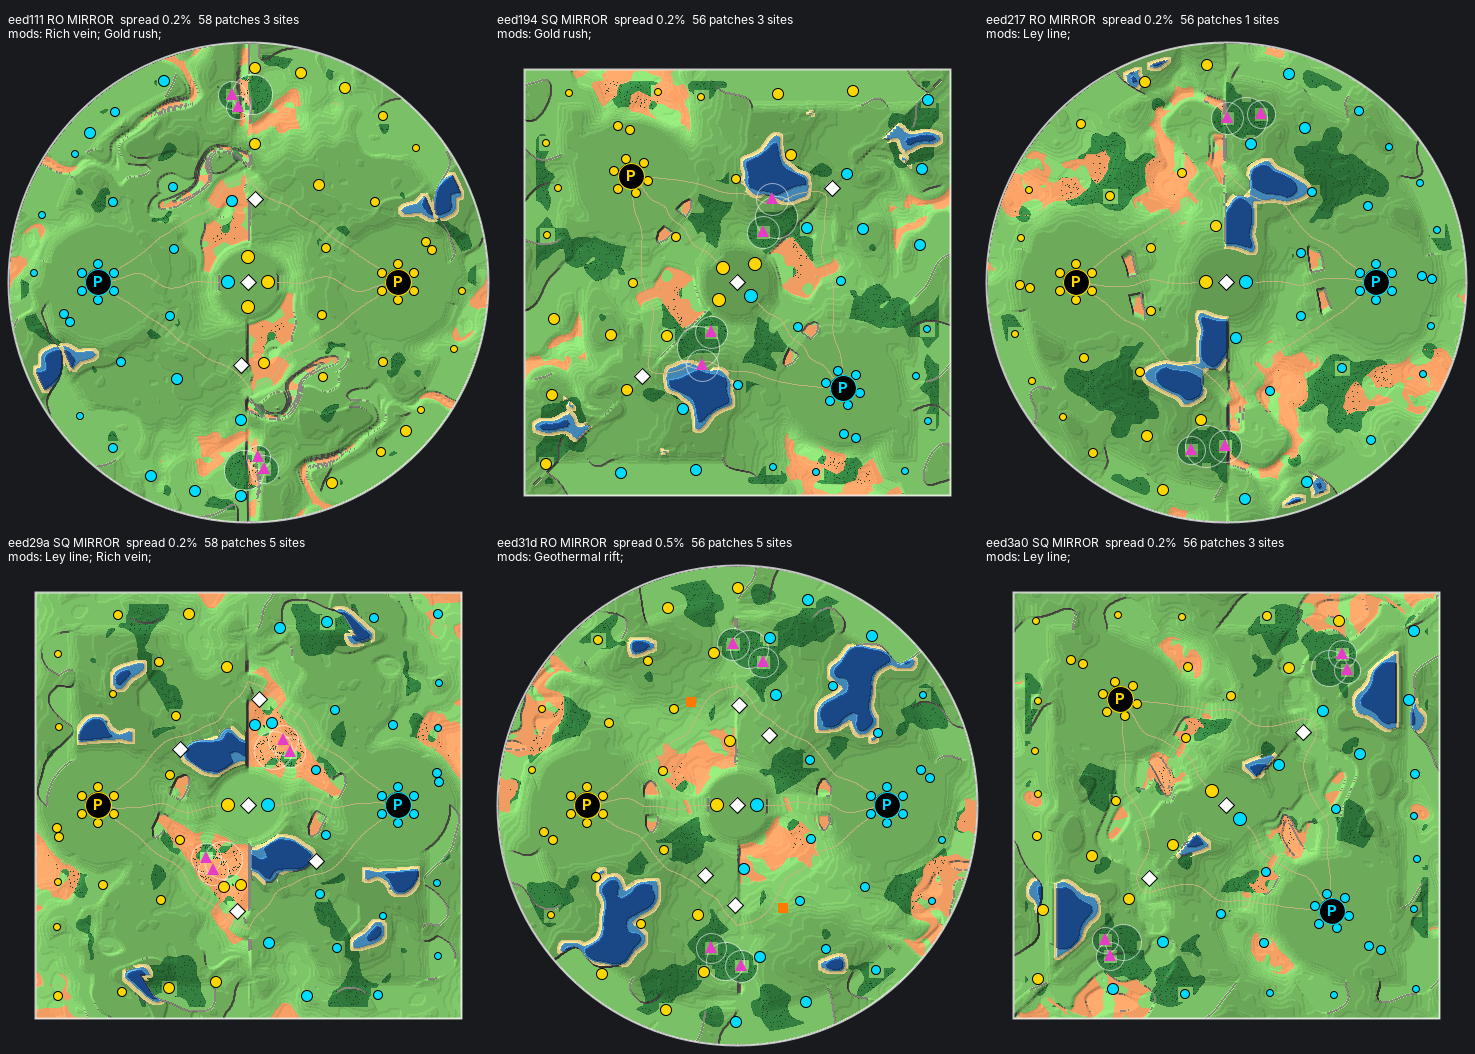
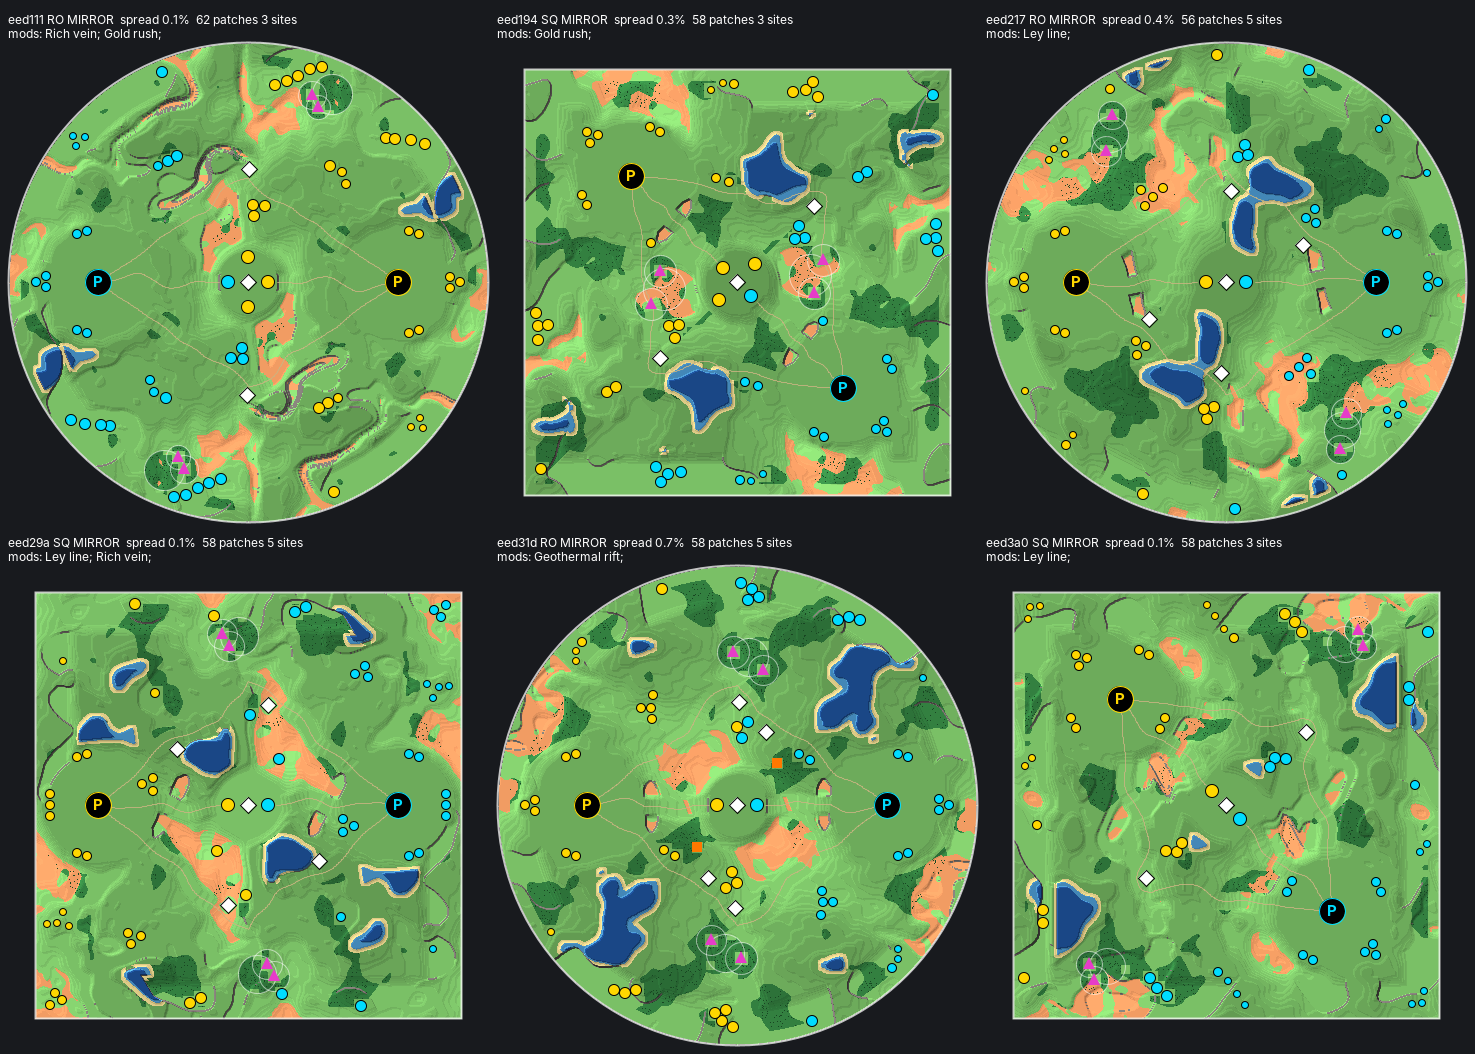
design: generated maps' BAR-style metal in maps.md section 7, the report and the sheets
lovish asked for metal "like beyond all reason" (clumps all round the map,
the rear sides included, stranded lone patches, paths). maps.md section 7
"Economy", the nudge, tests and cost now describe the clumps; the report gets
an "Oct 27 (later)" section with the 240-map production check run side by side
on the same machine for the home rings (2271184a), the random spread
(2c1878e1) and the clumps, plus the new knobs and `run.sh junit`. The seven
contact sheets in design/generated-maps are redrawn with the new metal.

Claude-Session: https://claude.ai/code/session_01Xns8nRTwyN6rCxHHNysYP4

diff --git a/design/maps.md b/design/maps.md
@@ -426,23 +426,37 @@ now carries a seed for every stamped map; before, it always played the unseeded 
   its forward ground, less metal); **Open** (no cliffs round the base, denser metal) vs **Bastion** (a plateau a tier up
   ringed by cliffs, two ramps, leaner metal); **Moated** (a river 70-90 in front, fords only) vs **Banks** (more land);
   **Mixed** (each seat its own); **Mirror** (point-symmetric terrain and economy: the "tournament" control).
-* *Economy* (lovish Oct 27 21:37: "each map should have mexes spread randomly and not be connected to where the
-  townhall spawns"): no home ring and no natural pair. One 2.0x patch per seat round the plaza, then the **random
-  spread**: every free spot in a seeded random order, each taken when no patch stands within 0.75 of its territory's
-  hole target (Prospector 29, Open 31, Banks 34, Plain 37, Moated 40, Bastion 43, Warden 46 blocks; the rim band, within
-  36 of the wall, 20% tighter; the lobby's richness scales it; never under 20), a second pass at 20 if the count is
-  short, until the map holds the seats' allowances: 28 / 20 / 15 patches a seat at 1v1 / 2v2 / 4v4, times the
-  archetype's density (its square root in team games, where the full contrast drew 19 patches a seat against 12) and
-  the square root of the lobby's richness. A seat may draw up to 1.3x its allowance; the balancer evens the rest. The
-  lobby's **extra metal** scales the spread from NORMAL (the count above): NONE 0.75x, LOW 0.875x, HIGH 1.25x. Values by
-  exposure (rich on the front line, lean behind the base). Every patch: a level 7x7 pad of land, no deep water within
-  7, reachable from its owner, off the roads, at least 46 from any start (the build ground), at least the extractor
-  clearance from the wall (`ExtractorClearance`, 11 today, the same rule as the pre-made maps), never in a reserved
-  zone (section 2's rules).
+* *Economy*, laid out as Beyond All Reason lays it (lovish Oct 27: "design them like beyond all reason and put clumps
+  in strategic positions all around the map including the back rear sides ... clump them, have stranded ones alone.
+  Maybe a path or cluster."; it replaces the Oct 27 21:37 random spread, keeping its rule that nothing stands round the
+  town hall):
+  * **Home clumps, the same for every seat**: a triangle of three straight behind the base (a row of three where the
+    wall is close, as on a square arena's side seats) and a pair on each rear flank, 72 degrees off straight back, 48-72
+    blocks out - past the 46-block build ground. One template in the seat's frame: the first distance and turn (0-50
+    degrees) that every seat's ground takes is everyone's, and the ground is levelled for it (`GenTerrain.homePads`: a
+    small level pad at the seat's height under each planned patch), so every lobby map in the production check has all
+    seven for every seat. Standard patches, untouched by the lobby's richness, extra metal or the balancer.
+  * One 2.0x patch per seat round the plaza (the middle's cluster), then **contested clumps of three**: one on every
+    front seam (both neighbours walk about as far), two more on the front line in team games.
+  * Then **groups over the open map**, seat by seat (always the seat furthest short of its allowance, so the dice never
+    pile one seat's ground): the free spot of its ground farthest from all metal (a seeded jitter, a nudge toward roads
+    and the front line and away from ground past the reach rule's 160 blocks' walk; anchors 1.25x the archetype's hole target apart - Prospector 29, Open 31, Banks 34, Plain 37,
+    Moated 40, Bastion 43, Warden 46 blocks - 20% tighter in the rim band) becomes a **lone stranded patch** (likelier on
+    exposed ground, the front line and the rim; at least one a map, at most 18% of the spread), a **path** of 3-5 along
+    the nearest road ("metal along natural routes", 45% of the groups by a road), or a **clump** of 2-4 (2/3/4 at
+    20/45/35%). A group's patches stand 9.5-14 apart; every patch keeps 26 from any other group. Farthest-first spreads
+    the groups all round the map, the rim and the ground behind the bases included.
+  * Counts: 28 / 20 / 15 patches a seat at 1v1 / 2v2 / 4v4 (home clumps and plaza patch included), times the
+    archetype's density (its square root in team games) and the square root of the lobby's richness; the lobby's
+    **extra metal** scales it from NORMAL: NONE 0.75x, LOW 0.875x, HIGH 1.25x. Values by exposure (rich on the front
+    line, lean behind the base). Every patch: a level 7x7 pad of land, no deep water within 7, reachable from its owner,
+    off the roads, at least 46 from any start (the build ground), at least the extractor clearance from the wall
+    (`ExtractorClearance`, 11 today, the same rule as the pre-made maps), never in a reserved zone (section 2's rules).
+    `MapLayout.homeEnd()` marks the home clumps (the first patches of the list).
 * *Objectives*: a site on the plaza, a contested site on every front seam (where both neighbours walk about as far),
   two more on the front line in team games, a warden's own two; **modifiers** add theirs.
 * *Jungle* (reserved for the hero slice, M12): one wild area per side (two in big team games) between the roads, with
-  an entry and an exit that differ every game and data-only creep camps; the fill leaves it alone.
+  an entry and an exit that differ every game and data-only creep camps; the metal leaves it alone.
 * *Modifiers* (`Modifier`), 1-2 per match when on (2-3 on surprise): Rich vein, Ley line (Ley Shrines along a line),
   Geothermal rift (vents + a Lava Vent site), Gold rush, Mercenary road, Garrison ruins, Watch ridge - all built from
   existing mechanics. Not rolled in the lobby until their mechanic exists: Hero relic, Hydra lair (the Oct 20 "hydras
@@ -459,9 +473,11 @@ eight builds, then small metal edits (a standard patch made rich on the poorest 
 richest...) down to 80% of the tolerance, each edit judged under the central weights and under eight seeded draws of
 the weights (the guesses in the score, priced within their ranges), going on while those draws' mean is still outside
 the tolerance; a draw still outside it gives way to a fresh draw (up to four). The nudge's new patch is drawn at random
-from the poorest seat's ground, never nearest its start. The data-only camps count zero on lobby maps.
+from the poorest seat's ground among the spots that join one of its clumps (9.5-14 from a clump of at most three, so it
+stays 2-4), and a patch is only taken away when that strands no neighbour - the balancer keeps the layout. The
+data-only camps count zero on lobby maps.
 
-**The reach rule** (beside the score, since the dice now place the metal): a balanced draw is refused, and drawn again,
+**The reach rule** (beside the score): a balanced draw is refused, and drawn again,
 when a start's nearest patch is over 110 blocks' walk or its metal within 160 blocks' walk is under 0.6 of the best
 start's (`MapGenerator.metalReach`).
 
@@ -487,9 +503,14 @@ every seat, the middle and its whole economy by ground; level pads, no deep wate
 wall than the extractor clearance; reserved zones (the jungle and a caller's zone) free of metal, jungle doors on its
 edge; seats and teams within the tolerance, starts on capitol ground inside their boxes; square edge helpers and the
 square wall's length; the options ride the seed (off rolls nothing, the lobby only live modifiers). The symmetric preset tests sweep
-`MapPreset.handmade()` only.
+`MapPreset.handmade()` only. JUnit (`bar/src/test/.../maps/gen`; headless: `tools/mapgen_sim/run.sh junit`):
+`MetalClumpsTest` (2/4/8 seats, six seeds, round and square: metal in groups of at most 6, a 2-4 group compact, lone
+patches at most 30% of the spread and at least one a map, paths on half the maps; a clump behind every base and
+max(2, seats / 2) in the midfield; the home clumps the same for every seat; fairness and buildable pads) and
+`GeneratedMetalTest` (tier 2 at main's numbers, nothing within 40 of a start, extra metal, the reach rule).
 
-**Cost.** A 4v4 build is ~150 ms on one core; the balancer builds up to eight, so a lobby map takes about 0.5 s at
-1v1 and 1-2 s at 2v2 and 4v4 (worst seen 2.2 s; 240 lobby seeds, all valid, none needing a fallback draw). The lobby
+**Cost.** A 4v4 build is ~150 ms on one core; the balancer builds up to eight, so a lobby map takes about 0.5-0.7 s at
+1v1, 1.1-1.2 s at 2v2 and 1.6-1.7 s at 4v4 (median; p95 1.9 s, worst seen 3.3 s; 240 lobby seeds, all valid, 17 needing a
+fallback draw, mostly for the reach rule in the draws checked: `design/generated-maps-report.md`, "Oct 27 (later)"). The lobby
 preview draws it on a worker thread ("Generating..."); the server builds it once at Start.
 

diff --git a/design/generated-maps-report.md b/design/generated-maps-report.md
@@ -23,6 +23,56 @@ knobs, and the open problems.
   first version of this file and the headless `tools/mapgen_sim`, re-ran the balance figures and found the mirror seam.
 - Its tables are kept below and marked **[A]**. They were measured on `0d2ece45`, before the tuning in `625914ef`.
 
+## Oct 27 (later): metal in BAR-style clumps
+
+lovish, on the random spread below: "design them like beyond all reason and put clumps in strategic positions all
+around the map including the back rear sides ... clump them, have stranded ones alone. Maybe a path or cluster."
+
+**What changed** (`GenEconomy`, design/maps.md section 7 "Economy"):
+- **Home clumps, the same for every seat**: a triangle (or a row of three where the wall is close) straight behind
+  the base and a pair on each rear flank, 48-72 blocks out, past the 46-block build ground (the 21:37 rule "not
+  connected to where the townhall spawns" stays: nothing within 40 of a start). One template in the seat's frame; the
+  first distance and turn every seat's plan accepts is levelled (`GenTerrain.homePads`, a small pad at the seat's
+  height) and then checked on the real ground. All 240 production maps have the full seven for every seat.
+- **Contested clumps of three** on every front seam, two more on the front line in team games.
+- **Groups over the open map**, seat by seat (the seat furthest short of its allowance goes next): its free spot
+  farthest from all metal becomes a lone stranded patch (likelier on exposed ground; at least one a map, at most 18%),
+  a path of 3-5 along the nearest road, or a clump of 2-4. Groups keep 26 apart; a group's patches 9.5-14.
+- The **nudge** keeps the layout: a new patch must join one of the poorest seat's clumps (2-4 after), a patch is only
+  removed when that strands no neighbour. Rich vein removes any group it touches whole.
+- The 1.3x seat slack is gone (the seat-by-seat order meets each allowance directly).
+
+**Tests:** `MetalClumpsTest` (JUnit, maps/gen), written first and red on 2c1878e1 for the right reasons (53 of 53
+patches alone, no clump behind any base, 0 home patches); green now with `GeneratedMetalTest`, all 9.
+Headless: `tools/mapgen_sim/run.sh junit` (a small JUnit shim; CI runs the real JUnit). The 12-map sweep
+(`run.sh gametest`): 0 problems, worst spread 3.9%.
+
+**The production check** (`run.sh lab GenProdStats prod.csv 40`, the same 240 lobby seeds; the three columns run on
+the same 2-core machine, two at a time, so the times compare):
+
+| Players, shape | ms median / p95 / max: home rings (2271184a) / random (2c1878e1) / clumps | Robust seat within 5% | Robust team within 5% | Fallback draws |
+|---|---|---|---|---|
+| 1v1 round | 564 / 1147 / 2251 - 594 / 1414 / 4131 - 666 / 1563 / 2866 | 0.80 / 0.76 / 0.75 | 0.80 / 0.76 / 0.75 | 0 / 4 / 5 |
+| 1v1 square | 492 / 679 / 936 - 561 / 1074 / 1092 - 502 / 1025 / 1926 | 0.79 / 0.76 / 0.75 | 0.79 / 0.76 / 0.75 | 0 / 4 / 2 |
+| 2v2 round | 1082 / 1306 / 1513 - 1220 / 1641 / 2564 - 1200 / 1448 / 1526 | 0.80 / 0.55 / 0.67 | 0.95 / 0.82 / 0.89 | 0 / 2 / 0 |
+| 2v2 square | 1002 / 1203 / 1291 - 1184 / 1809 / 2589 - 1125 / 1340 / 1417 | 0.74 / 0.59 / 0.68 | 0.93 / 0.87 / 0.90 | 0 / 3 / 0 |
+| 4v4 round | 1469 / 1654 / 1698 - 1924 / 2181 / 3628 - 1670 / 1940 / 3151 | 0.45 / 0.23 / 0.43 | 0.99 / 0.93 / 0.98 | 0 / 1 / 2 |
+| 4v4 square | 1449 / 1609 / 1636 - 1940 / 3885 / 5572 - 1621 / 3229 / 3333 | 0.46 / 0.25 / 0.42 | 0.98 / 0.95 / 0.99 | 0 / 8 / 8 |
+| **All 240** | p50 1036 / 1210 / 1165, p95 1592 / 2565 / 1897, max 2251 / 5572 / 3333 | | | **0 / 22 / 17** |
+
+- All 240 maps are valid in every column; the seat spread is within 5% under the central weights on every map
+  (clumps: median 1.7-3.2%, max 4.9%; 4v4 team median 0.7%). Patches a map: 57 / 81-82 / 123.
+- **Robustness** (share of 40 weight draws within 5%) is back near the home-ring version: the standard home clumps are
+  fairness by construction again, and the seat-by-seat spread stops the dice piling one seat's ground. 1v1 stays at
+  0.75 (0.80 with the rings).
+- **Fallback draws:** 17 of 240 (random: 22, rings: 0). In the draws checked they are the reach rule (a start with
+  under 0.6 of the best start's metal within 160 blocks' walk); 8 of them on 4v4 square maps. Anchors past that walk
+  count 0.8x (`GenEconomy.FAR_BIAS`), which halved the 1v1 redraws (16 to 7). The reach floor is still the open
+  question below (0.6, 0.5 or none); with a standard home set it matters less than it did.
+- 2271184a prices tier 2 at the old 7.0/s; the other two at main's 4.5/s.
+
+The section below (the random spread) was measured before this change.
+
 ## Oct 27: random metal, tier 2 at main's numbers
 
 lovish (Oct 27 21:37): tier 2 follows main, and "each map should have mexes spread randomly and not be connected to where
@@ -430,7 +480,9 @@ and object rounding.
 
 - `tools/mapgen_sim/run.sh lab GenShowcase OUTDIR` draws three hill-shaded sheets: 1v1 and 4v4 seeds 1-8 as the lobby
   draws them, and a 4v4 raw/balanced pair per seed. They are not cherry-picked.
-- [A]'s contact sheets are in `design/generated-maps/`: `run.sh sheet ...`, drawn on `0d2ece45`.
+- The contact sheets in `design/generated-maps/` (`run.sh sheet design/generated-maps 2 6 MIRROR MIXED OPEN_BASTION
+  PROSPECTOR_WARDEN RIVER` and `... 8 3 MIXED PROSPECTOR_WARDEN`) were redrawn for the BAR-style clumps (Oct 27 later);
+  [A] first drew them on `0d2ece45`.
 
 Both are the generator's own grid, not the Minecraft build.
 
@@ -458,10 +510,12 @@ These are generator knobs. No unit or economy numbers change.
 | Knob | Value | Where |
 |---|---|---|
 | Seat tolerance | 5% (the nudge aims for 4%) | `GenOptions.tolerance` |
-| Patch allowance per seat | 28 / 20 / 15 at 1v1 / 2v2 / 4v4, times the archetype's density (its square root in team games), the square root of the lobby's richness and the extra-metal level (NONE 0.75, LOW 0.875, NORMAL 1, HIGH 1.25); a seat may draw 1.3x | `GenEconomy.capOf`, `fill` |
+| Patch allowance per seat | 28 / 20 / 15 at 1v1 / 2v2 / 4v4 (home clumps and plaza patch included), times the archetype's density (its square root in team games), the square root of the lobby's richness and the extra-metal level (NONE 0.75, LOW 0.875, NORMAL 1, HIGH 1.25) | `GenEconomy.capOf`, `spread` |
+| Home clumps | a triangle (or row of 3) behind the base and a pair on each rear flank at 72 deg, 48-72 out, turns up to 50 deg; 7 standard patches a seat | `GenEconomy.homeOptions` |
+| Groups | lone 15% (35% on exposed ground; at most 18%, at least one a map), path of 3-5 by a road 45% (else 8%), clump 2/3/4 at 20/45/35%; patches 9.5-14 apart, groups 26 apart, anchors 1.25x the hole target apart; ground past 160 walk 0.8x | `GenEconomy` |
 | Reach rule | nearest patch within 110 blocks' walk; metal within 160 at least 0.6 of the best start's | `MapGenerator.metalReach` |
-| Hole targets, blocks | Prospector 29, Open 31, Banks 34, Plain 37, Moated 40, Bastion 43, Warden 46 | `Archetype` |
-| Rim band | within 36 of the wall, 20% denser; never closer than the extractor clearance (11) | `GenEconomy.fill` |
+| Hole targets, blocks (group anchors 1.25x) | Prospector 29, Open 31, Banks 34, Plain 37, Moated 40, Bastion 43, Warden 46 | `Archetype` |
+| Rim band | within 36 of the wall, group anchors 20% closer; never closer than the extractor clearance (11) | `GenEconomy.anchor` |
 | Patch values | rich at exposure 0.38-0.62 (the front line), lean below 0.3 behind the base, a 2.0x patch per seat round the plaza | `GenEconomy` |
 | Warden | 2 own capture sites | `Archetype` |
 | Team games | 2 extra front-line sites | `GenEconomy` |
@@ -502,6 +556,7 @@ These are generator knobs. No unit or economy numbers change.
 tools/mapgen_sim/run.sh lab GenExperiments OUT 2 ROUND PROSPECTOR_WARDEN 200 2 12   # one exp1 cell; all 20 cells for the tables
 python3 tools/mapgen_sim/analyse.py OUT ANALYSIS [curves.csv]                       # exp1 tables and charts
 tools/mapgen_sim/run.sh lab GenProdStats prod.csv 40                                # the production check
+tools/mapgen_sim/run.sh junit                                                       # the maps/gen JUnit tests, headless
 tools/mapgen_sim/run.sh lab GenReachStats reach.csv 20                              # nearest metal and reach per start
 tools/mapgen_sim/run.sh lab GenRobustCmp robust.csv 2 25                            # 1v1 robust nudge (8 16 for 4v4)
 tools/mapgen_sim/run.sh lab GenTeamBias bias.csv 20 40                              # 4v4 team gap in the sim
